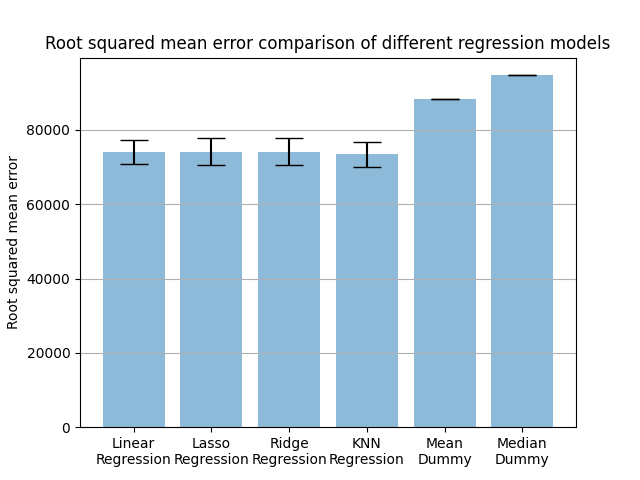
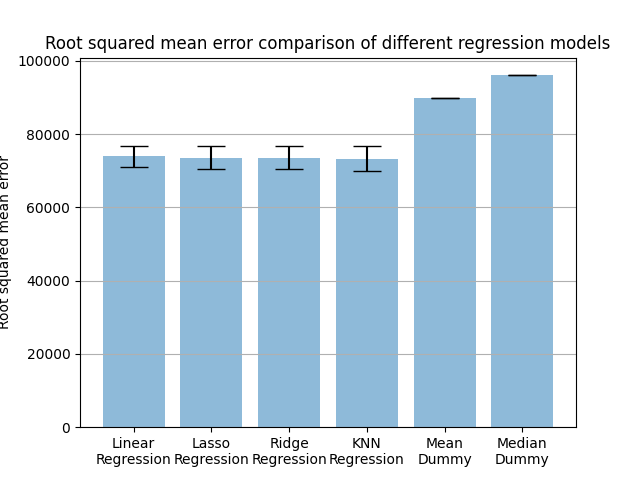
Added comments and added extra plots

diff --git a/main.py b/main.py
@@ -122,7 +122,7 @@ def pre_processing(): # LB
     result.to_csv('results.csv', index=False) # write dataframe to csv file 
     print('Finished preprocessing data...')
 
-def methods(li, la, ri, kn, du, co): # CT, TK, LB
+def methods(li, la, ri, kn, du, co): # CT, TK
     print('Starting methods...')
     # ----------------------------------------------------------------------------#
     ############################ Initialization ###################################
@@ -157,13 +157,14 @@ def methods(li, la, ri, kn, du, co): # CT, TK, LB
     # ----------------------------------------------------------------------------#
     ############################ Linear Regression ################################
     # ----------------------------------------------------------------------------#
-    if(li):
+    if(li): # if boolean for linear regression is set
         print('Starting linear regression...')
         li_error = [] # linear regression error
         for train, test in kf.split(x_train): # perform 5-fold cross validation on training data
             li_model.fit(x_train.iloc[train], y_train.iloc[train]) # fit the current's fold training data
             y_pred_li = li_model.predict(x_train.iloc[test]) # predict using current's fold test data
             li_error.append(metrics.mean_squared_error(y_train.iloc[test], y_pred_li)) # add error to temp array
+        li_model.fit(x_train, y_train) # fit the model on training data
         final_y_pred_li = li_model.predict(x_test) # predict on test data
         li_rmse_error = metrics.mean_squared_error(y_test, final_y_pred_li) # get RMSE from the actual outputs
         li_error.append(li_rmse_error) # add last prediction on test data to array of errors
@@ -176,50 +177,48 @@ def methods(li, la, ri, kn, du, co): # CT, TK, LB
     # ----------------------------------------------------------------------------#
     ############################ Lasso Regression ################################
     # ----------------------------------------------------------------------------#
-    if(la):
+    if(la): # if boolean for lasso regression is set
         print('Starting lasso regression...')
-        for c in c_values:
-            currentAlpha = 1/(2*c)
-            la_error = []
-            la_model = Lasso(alpha=currentAlpha)
-            for train, test in kf.split(x_train):  
-                la_model.fit(x_train.iloc[train], y_train.iloc[train])
-                y_pred_la = la_model.predict(x_train.iloc[test])
-                la_error.append(metrics.mean_squared_error(y_train.iloc[test], y_pred_la))
-            la_mean.append(np.mean(la_error))
-            la_std.append(np.std(la_error))
-            if(c == 10):
-                final_compare_mean.append(np.mean(la_error))
-                final_compare_std.append(np.std(la_error))
-            #print('c=', c, ' mean error=', np.mean(la_error), ' std=', np.std(la_error))
+        for c in c_values: # cross validation to select hyper parameter c
+            currentAlpha = 1/(2*c) # alpha value for current model using current c value
+            la_error = [] # lasso error
+            la_model = Lasso(alpha=currentAlpha) # lasso model
+            for train, test in kf.split(x_train): # use 5 fold cross validation on training data
+                la_model.fit(x_train.iloc[train], y_train.iloc[train]) # fit the model on training fold
+                y_pred_la = la_model.predict(x_train.iloc[test]) # predict on test fold
+                la_error.append(metrics.mean_squared_error(y_train.iloc[test], y_pred_la)) # compare prediction and report error
+            la_mean.append(np.mean(la_error)) # add mean of errors
+            la_std.append(np.std(la_error)) # add std of errors
+            if(c == 10): # select c value with best results
+                final_compare_mean.append(np.mean(la_error)) # add to final mean comparison
+                final_compare_std.append(np.std(la_error)) # add to final  std comparison
         print('Finished lasso regression...')
 
     # ----------------------------------------------------------------------------#
     ############################ Ridge Regression ################################
     # ----------------------------------------------------------------------------#
-    if(ri):
+    if(ri): # if ridge boolean is set
         print('Starting ridge regression...')
-        for c in c_values:
-            currentAlpha = 1/(2*c)
-            ri_error = []
-            ri_model = Ridge(alpha=currentAlpha)
-            for train, test in kf.split(x_train):  
-                ri_model.fit(x_train.iloc[train], y_train.iloc[train])
-                y_pred_ri = ri_model.predict(x_train.iloc[test])
-                ri_error.append(metrics.mean_squared_error(y_train.iloc[test], y_pred_ri))
-            ri_mean.append(np.mean(ri_error))
-            ri_std.append(np.std(ri_error))
-            if(c == 0.1):
-                final_compare_mean.append(np.mean(ri_error))
-                final_compare_std.append(np.std(ri_error))
-            #print('c=', c, ' mean error=', np.mean(ri_error), ' std=', np.std(ri_error))
+        for c in c_values: # cross validation to select hyper parameter c
+            currentAlpha = 1/(2*c) # alpha value for current model using current c value
+            ri_error = [] # ridge error
+            ri_model = Ridge(alpha=currentAlpha) # ridge model
+            for train, test in kf.split(x_train): # use 5 fold cross validation on training data
+                ri_model.fit(x_train.iloc[train], y_train.iloc[train]) # fit the model on training fold
+                y_pred_ri = ri_model.predict(x_train.iloc[test]) # predict on test fold
+                ri_error.append(metrics.mean_squared_error(y_train.iloc[test], y_pred_ri)) # compare prediction and report error
+            ri_mean.append(np.mean(ri_error)) # add mean of errors
+            ri_std.append(np.std(ri_error)) # add std of errors
+            if(c == 0.1): # select c value with best results
+                final_compare_mean.append(np.mean(ri_error)) # add to final mean comparison
+                final_compare_std.append(np.std(ri_error)) # add to final std comparison
         print('Finished ridge regression...')
 
 
     # ----------------------------------------------------------------------------#
     ############################ KNN Regression ###################################
     # ----------------------------------------------------------------------------#    
-    if(kn):
+    if(kn): # if knn boolean is set
         print('Starting knn regression...')
         for k in k_values: # for each k value
             kn_error = [] # kn_error array to store errors
@@ -230,16 +229,15 @@ def methods(li, la, ri, kn, du, co): # CT, TK, LB
                 kn_error.append(metrics.mean_squared_error(y_train.iloc[test], y_pred_knn)) # add error to kn_error array
             knn_mean.append(np.mean(kn_error)) # add mean of estimates
             knn_std.append(np.std(kn_error)) # add std of estimates
-            if(k == 10):
-                final_compare_mean.append(np.mean(kn_error))
-                final_compare_std.append(np.std(kn_error))
-            #print('k=', k, ' mean error=', np.mean(kn_error), ' std=', np.std(kn_error))
+            if(k == 10): # select best k value
+                final_compare_mean.append(np.mean(kn_error)) # add error to final mean comparison
+                final_compare_std.append(np.std(kn_error)) # add error to final std comparison
         print('Finished knn regression...')
 
     # ----------------------------------------------------------------------------#
     ############################ Dummy Regressors #################################
     # ----------------------------------------------------------------------------#
-    if(du):
+    if(du): # if dummy boolean is set
         dummy_mean.fit(x_train, y_train) # fit mean model
         y_pred_mean = dummy_mean.predict(x_test) # make prediction
         final_compare_mean.append(np.mean(metrics.mean_squared_error(y_pred_mean, y_test))) # mean rmse dummy mean
@@ -252,16 +250,71 @@ def methods(li, la, ri, kn, du, co): # CT, TK, LB
     # ----------------------------------------------------------------------------#
     ############################ Plot and Compare #################################
     # ----------------------------------------------------------------------------#
-    if(co):
+    if(co): # if compare boolean is set
         print('Starting plotting and comparing...')
+
+        plt.scatter(X['Date & Time'], y, s=1) # plot time against cycle count
+        plt.xlabel('Hour of the day') # set x axis
+        plt.ylabel('Cycle count') # set y axis
+        plt.title('Cycle count vs Hour of the day') # set title
+        plt.show() # show plot
+
+        plt.scatter(X['Rain'], y, s=1) # plot rain against cycle count
+        plt.xlabel('Rain amount') # set x axis
+        plt.ylabel('Cycle count') # set y axis
+        plt.title('Cycle count vs Rain amount') # set title
+        plt.show() # show plot
+
+        plt.scatter(X['Temperature'], y, s=1) # plot temperature against cycle count
+        plt.xlabel('Temperature') # set x axis
+        plt.ylabel('Cycle count') # set y axis
+        plt.title('Cycle count vs Temperature') # set title
+        plt.show() # show plot
+
+        plt.scatter(X['Humidity'], y, s=1) # plot humidity against cycle count
+        plt.xlabel('Humidity') # set x axis
+        plt.ylabel('Cycle count') # set y axis
+        plt.title('Cycle count vs Humidity') # set title
+        plt.show() # show plot
+
+        plt.scatter(X['Wind Speed'], y, s=1) # plot wind speed against cycle count
+        plt.xlabel('Wind speed') # set x axis
+        plt.ylabel('Cycle count') # set y axis
+        plt.title('Cycle count vs Wind speed') # set title
+        plt.show() # show plot
+
+        plt.scatter(X['Wind Direction'], y, s=1) # plot wind direction against cycle count
+        plt.xlabel('Wind direction') # set x axis
+        plt.ylabel('Cycle count') # set y axis
+        plt.title('Cycle count vs Wind direction') # set title
+        plt.show() # show plot
+
+        plt.scatter(X['Sun Duration'], y, s=1) # plot sun duration against cycle count
+        plt.xlabel('Sun Duration') # set x axis
+        plt.ylabel('Cycle count') # set y axis
+        plt.title('Cycle count vs Sun Duration') # set title
+        plt.show() # show plot
+
+        plt.scatter(X['Visibility'], y, s=1) # plot visibility against cycle count
+        plt.xlabel('Visibility') # set x axis
+        plt.ylabel('Cycle Count') # set y axis
+        plt.title('Cycle count vs Visibility') # set title
+        plt.show() # show plot
+
+        plt.scatter(X['Cloud Amount'], y, s=1) # plot cloud amount against cycle count
+        plt.xlabel('Cloud Amount') # set x axis
+        plt.ylabel('Cycle count') # set y axis
+        plt.title('Cycle count vs Cloud Amount') # set title
+        plt.show() # show plot
+
         plt.errorbar(np.log10(c_values), la_mean, yerr= la_std, label='Lasso Model') # plot error bar for lasso regression
         plt.errorbar(np.log10(c_values), ri_mean, yerr= ri_std, label='Ridge Model') # plot error bar for ridge regression
-        plt.xlim(-7.5, 7.5)
-        plt.xlabel('Log10(C) values')
-        plt.ylabel('Root mean squared error')
-        plt.title('Log10(C) vs Root mean squared error \nfor Lasso and Ridge regression')
-        plt.legend()
-        plt.show()
+        plt.xlim(-7.5, 7.5) # limit x values for better viewing of plot
+        plt.xlabel('Log10(C) values') # set x axis
+        plt.ylabel('Root mean squared error') # set y axis
+        plt.title('Log10(C) vs Root mean squared error \nfor Lasso and Ridge regression') # title
+        plt.legend() # show legend
+        plt.show() # show plot
 
         plt.errorbar(k_values, knn_mean, yerr=knn_std, label='KNN regression') # plot errorbar for knn
         plt.legend() # plot legend
@@ -270,16 +323,14 @@ def methods(li, la, ri, kn, du, co): # CT, TK, LB
         plt.title('Root Mean Squared Error (RMSE) \nfor KNN Regression vs different k values') # set title
         plt.show() # show plot
 
-        fig, ax = plt.subplots()
-        ax.bar(final_compare_x, final_compare_mean, yerr=final_compare_std, align='center', alpha=0.5, ecolor='black', capsize=10)
-        ax.set_ylabel('Root squared mean error')
-        ax.set_xticks(final_compare_x)
-        ax.set_xticklabels(models)
-        ax.set_title('Root squared mean error comparison of different regression models')
-        ax.yaxis.grid(True)
-        plt.show()
-
-
+        fig, ax = plt.subplots() # create a subplot
+        ax.bar(final_compare_x, final_compare_mean, yerr=final_compare_std, align='center', alpha=0.5, ecolor='black', capsize=10) # create bar plot
+        ax.set_ylabel('Root squared mean error') # set y axis
+        ax.set_xticks(final_compare_x) # set x axis
+        ax.set_xticklabels(models) # set x axis labels
+        ax.set_title('Root squared mean error comparison of different regression models') # set title
+        ax.yaxis.grid(True) # show grid
+        plt.show() # show plot
         print('Finished plotting and comparing...')
 
     print('Finished methods...')
